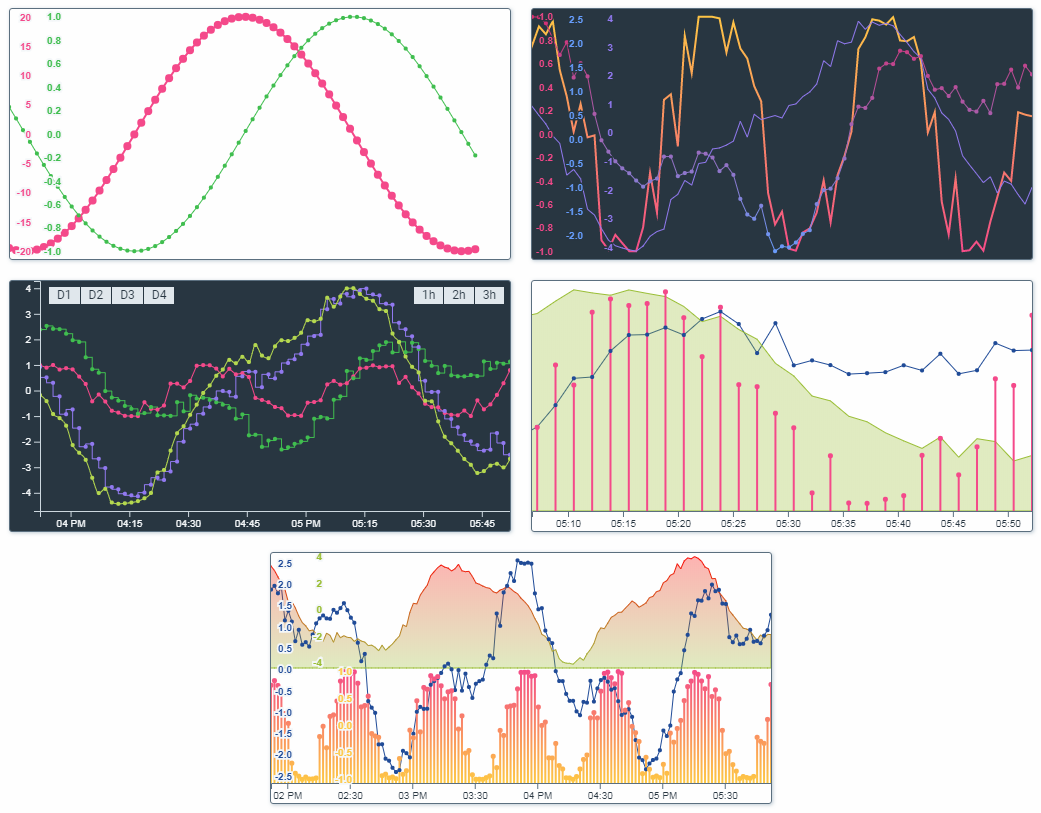
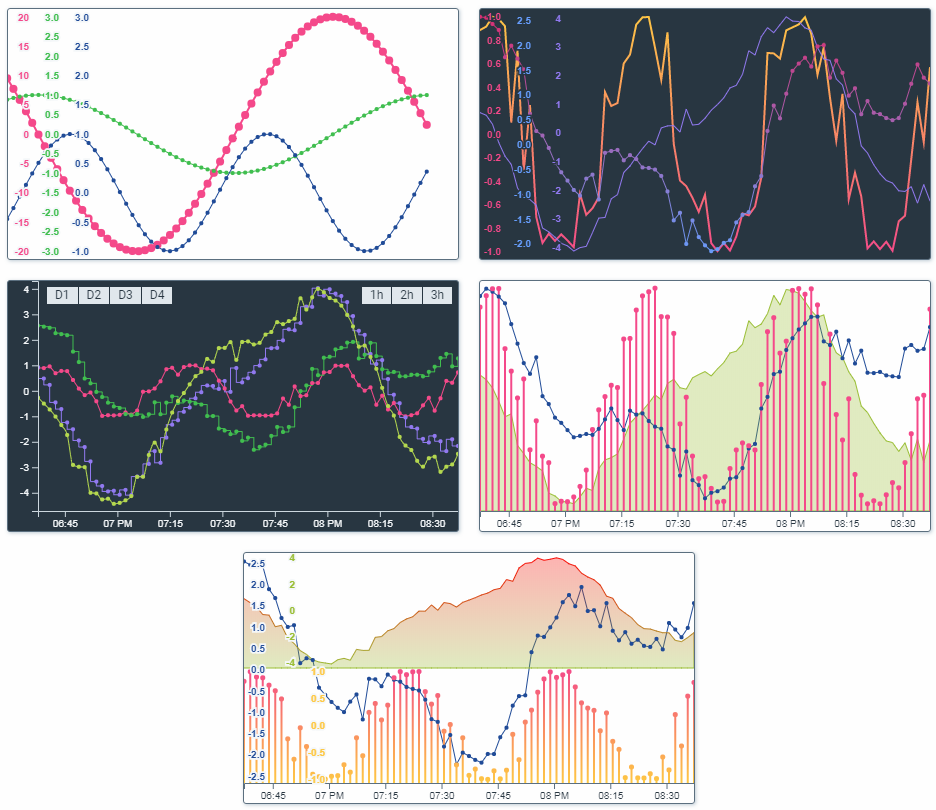
custom scale domain

diff --git a/demo/src/components/Chart1/Chart1.js b/demo/src/components/Chart1/Chart1.js
@@ -11,6 +11,7 @@ export default class Chart1 extends React.Component {
 
     data1 = [];
     data2 = [];
+    data3 = [];
     counter = 0;
 
     fillData = (slice = false) => {
@@ -18,10 +19,12 @@ export default class Chart1 extends React.Component {
         if (slice) {
             this.data1 = this.data1.slice(1);
             this.data2 = this.data2.slice(1);
+            this.data3 = this.data3.slice(1);
         }
 
         this.data1.push([+new Date() + this.counter * 100000, Math.cos(this.counter / 10 + Math.PI) * 20]);
         this.data2.push([+new Date() + this.counter * 100000, Math.cos(this.counter / 10 + Math.PI / 2)]);
+        this.data3.push([+new Date() + this.counter * 100000, Math.cos(this.counter / 5 + Math.PI / 1.5)]);
     };
 
     componentDidMount() {
@@ -46,6 +49,16 @@ export default class Chart1 extends React.Component {
             data: this.data2,
             showAxis: true,
             showDots: true,
+            scaleDomain: [-3,3]
+        };
+
+        const dataStream3 = {
+            label: 'Data 2',
+            color: '#1F4B99',
+            data: this.data2,
+            showAxis: true,
+            showDots: true,
+            scaleDomain: [-1,3]
         };
 
         this.chart = new TimeseriesMultiChart({
@@ -58,14 +71,15 @@ export default class Chart1 extends React.Component {
             maxZoomTime: 3600 * 8000,
             minZoomTime: 60*10 * 1000,
         });
-        this.chart.render([dataStream1, dataStream2]);
+        this.chart.render([dataStream1, dataStream2, dataStream3]);
 
         setInterval(() => {
             this.fillData(true);
             dataStream1.data = this.data1;
             dataStream2.data = this.data2;
+            dataStream3.data = this.data3;
             this.chart.lastChartTime = +new Date() + (this.counter + 5) * 100000;
-            this.chart.update([dataStream1, dataStream2]);
+            this.chart.update([dataStream1, dataStream2, dataStream3]);
         }, 200);
     }
     render() {

diff --git a/src/main.js b/src/main.js
@@ -464,7 +464,7 @@ class TimeseriesMultiChart {
         let commonMinValue = Number.MAX_SAFE_INTEGER;
         let commonMaxValue = -Number.MAX_SAFE_INTEGER;
         this.dataStreams.forEach((dataStream, idx) => {
-            const { data, scaleRange = [0, 100], scaleVisible = false } = dataStream;
+            const { data, scaleRange = [0, 100], scaleVisible = false, scaleDomain } = dataStream;
 
             let scalingData = data;
             if (this.autoScale || scaleVisible) {
@@ -475,7 +475,7 @@ class TimeseriesMultiChart {
                 return;
             }
 
-            const extent = d3.extent(scalingData, d => d[1]);
+            const extent = scaleDomain || d3.extent(scalingData, d => d[1]);
             const extentPadding = (extent[1] - extent[0]) / this.chartPaddingFactor;
             this.yAxisScales[idx] = d3
                 .scaleLinear()

diff --git a/demo/src/components/App/App.js b/demo/src/components/App/App.js
@@ -9,7 +9,7 @@ import Chart5 from '../Chart5/Chart5';
 
 class App extends Component {
     render() {
-        const chartWidth = 500;
+        const chartWidth = 450;
         const chartHeight = 250;
         const chartCommonProps = {
             width: chartWidth,
